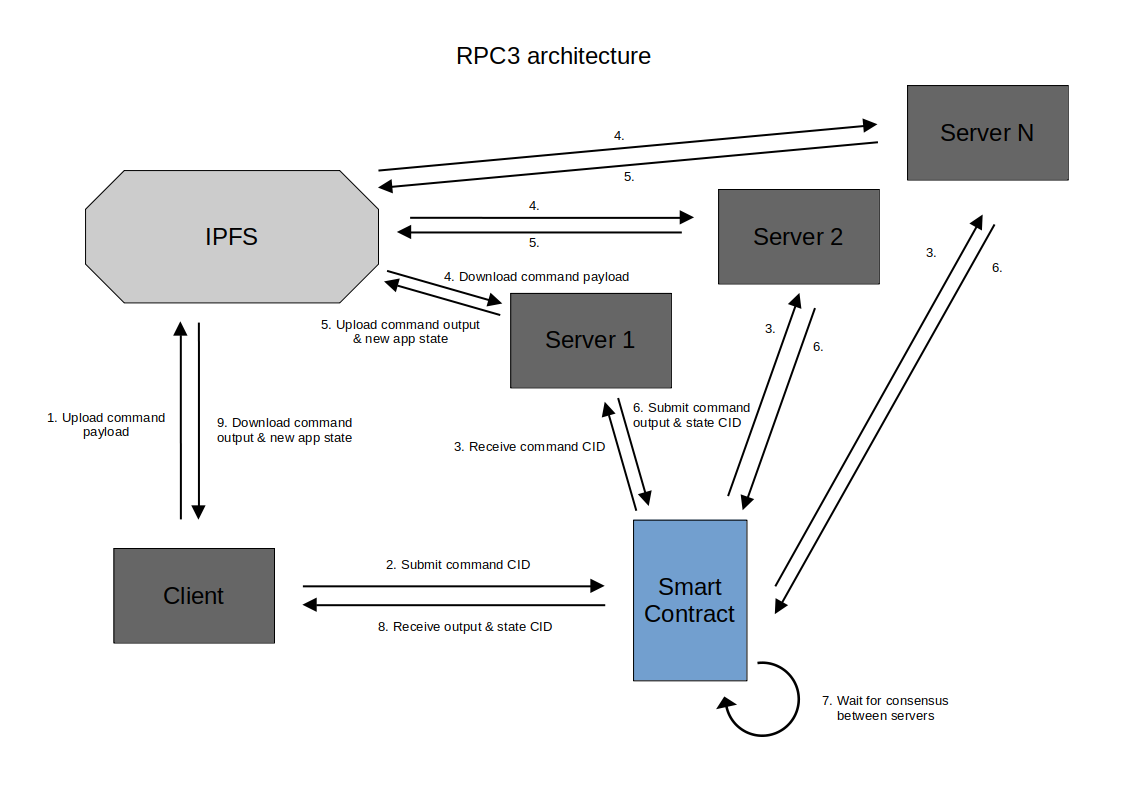
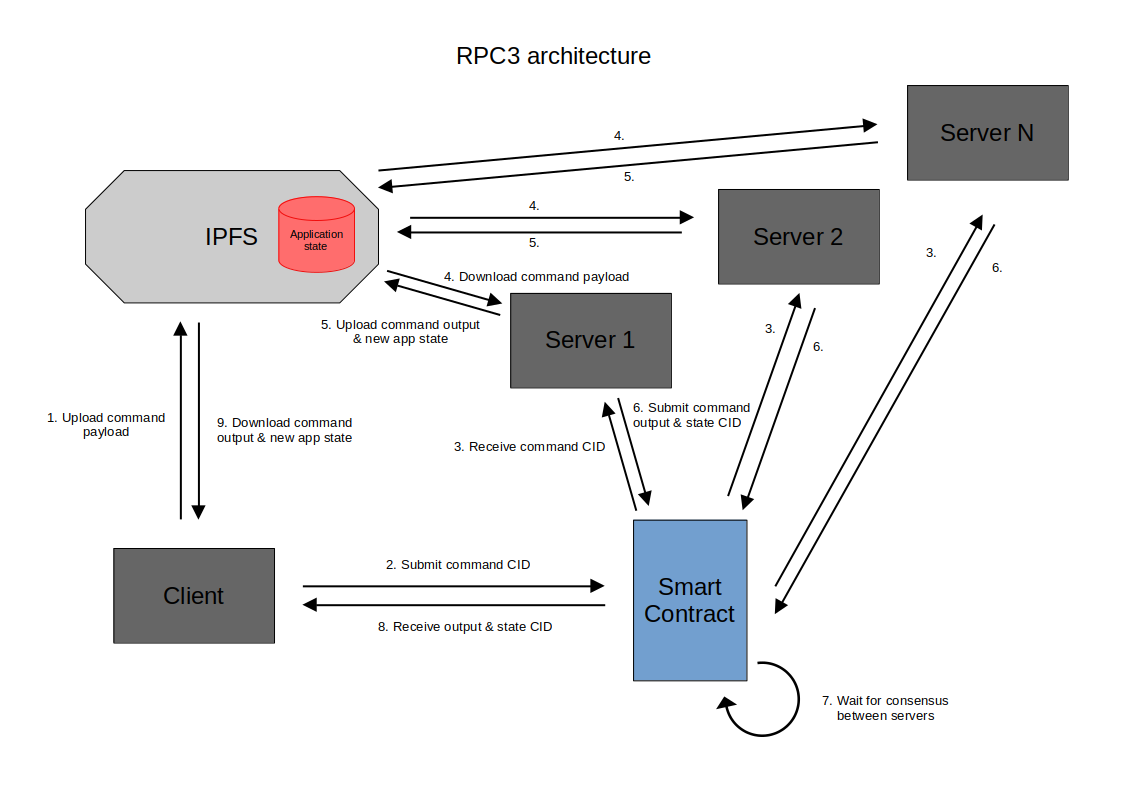
Update diagram and polish README

Changed region(s): [[0.2493, 0.2418, 0.3428, 0.3627]]

diff --git a/README.md b/README.md
@@ -18,22 +18,22 @@ First thing that comes to mind when hearing this definition is blockchain techno
 great part of the solution, especially smart contracts which allowed the surge of decentralized exchanges and other
 DApps. But this comes with a certain number of known limitations :
 
-- Computational resources of smart contracts are limited, whether it is CPU power, memory or disk storage. EVM chains
-  for example use a gas system as a way to monetize these resources, and capacity depends on the maximum size of blocks
-  which is very limited
-- Programming of smart contracts can only be done with a limited set of instructions. Because result needs to be
+- **Computational resources of smart contracts are limited**, whether it is CPU power, memory or disk storage. EVM
+  chains for example use a gas system as a way to monetize these resources, and capacity depends on the maximum size of
+  blocks which is very limited
+- **Programming of smart contracts can only be done with a limited set of instructions.** Because result needs to be
   deterministic, we cannot use regular server-side programming languages, frameworks and libraries. We need to rely on
   oracles and inter-chain communication protocols to get data from external world, which adds layers of complexity.
-- Deploying updates is a tough task as smart contracts are by design not upgradeable. Design patterns exist in order to
-  mitigate this limitation, like the proxy pattern, but some cases may require more complex migration logic that
+- **Deploying updates is a tough task** as smart contracts are by design not upgradeable. Design patterns exist in order
+  to mitigate this limitation, like the proxy pattern, but some cases may require more complex migration logic that
   inherently induces various risks.
 
 When I discovered [Oasis Protocol](https://oasisprotocol.org) and how they managed to add privacy on smart contracts, I
 immediately realized that it would unlock new use cases and solve problems that did not have a solution until now.
 Regarding the three points above, there are indeed some projects out there that aim at solving one or many of these
-problems, but they often imply the creation of a new protocol or a new blockchain from scratch. However, I was able to
-glimpse the possibility of a solution that only uses smart contracts on an already existing protocol by leveraging its
-privacy capabilities.
+problems, but they often imply the creation of a new protocol or a new blockchain from scratch. However, here I was able
+to glimpse the possibility of a solution that only uses smart contracts on an already existing protocol, by leveraging
+its privacy capabilities.
 
 This is how the RPC3 project is born. I gave it this name because the type of client-server interactions that I wanted
 to cover matches pretty well the definition of [Remote Procedure
@@ -44,7 +44,7 @@ Calls](https://en.wikipedia.org/wiki/Remote_procedure_call), and the "3" is a re
 
 We obviously cannot expect such a new architecture to be as simple and straightforward as the classic one, simply
 because of the number of technical challenges being inherently higher. Some balance must be found between complexity and
-feasibility, the initial brainstorming is certainly what took the most time, especially when you are working solo on it.
+feasibility, the initial brainstorming is certainly what took the most time; especially when you are working solo on it.
 Here is what it looks like in the end:
 
 ![RPC3 architecture](docs/architecture-rpc3.png)
@@ -90,13 +90,13 @@ This repository contains:
   - Basic reward mechanism to incentivize servers to contribute positively, without explicitly defining the source of
     income that fund these rewards
 - A rudimentary demo app that allows clients to increment a private counter:
-  - A command-line client app that connects to a local IPFS node and can submit requests and read responses via the
-    contract. The users chooses a number and will increment a counter by that number, that initially starts at 0
+  - A command-line client app that connects to a local IPFS node and can interact with the contract. The users chooses a
+    number and will increment a counter by that number, that initially starts at 0
   - A server app that connects to the same local IPFS node and includes scripts to launch many servers and simulate the
     consensus process
-  - The off-chain state of the application (in this case the counter values for each user) is saved in a SQLite database
-    file which is stored in IPFS. Clients may use it to retrieve the value of their counter, and servers use it to save
-    the results from computations.
+  - The off-chain state of the application (in this case the counter values for each user) is represented by an SQLite
+    database living in IPFS. Clients may use it to retrieve the value of their counter, and servers use it to save the
+    results from computations.
 - A "private computation unit" (PCU) smart contract that adds an encryption layer to the whole system. This contract is
   entirely decoupled from the system itself, which is why I didn't mention it when I explained the general concept. It
   basically makes it possible for clients to send encrypted requests and for servers to perform computations over
@@ -116,6 +116,9 @@ This repository contains:
 - Currently you need to manually send funds to the contract in order to reward servers for their contribution. This is
   good because it allows to externally define the app's business model, but this part is not covered in the demo counter
   app.
+- The consensus process takes a certain time to complete. Between the submission of the command and the availability of
+  the output, there is an observed minimum of 40 seconds of delay. This makes it non suitable for applications requiring
+  live data or frequent updates. The scope is limited to _fast read, slow write_ type of applications.
 
 ## Challenges
 
